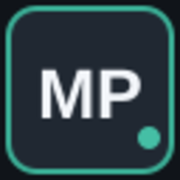
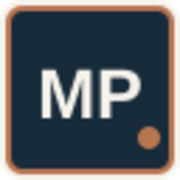
junk pushing

Changed region(s): [[0.0, 0.0, 1.0, 1.0]]

diff --git a/index.html b/index.html
@@ -7,7 +7,7 @@
     <link rel="apple-touch-icon" href="/apple-touch-icon.png" />
     <link rel="manifest" href="/site.webmanifest" />
     <meta name="viewport" content="width=device-width, initial-scale=1.0" />
-    <meta name="theme-color" content="#101419" />
+    <meta name="theme-color" content="#F5F2EB" />
     <meta name="description" content="Explore Manish Pal's embedded systems projects, microcontroller development, electronics experience, firmware work, and engineering portfolio." />
     <link rel="canonical" href="__SITE_URL__/" />
     <title>Manish Pal | Aspiring Embedded Systems Engineer</title>

diff --git a/src/App.css b/src/App.css
@@ -811,6 +811,7 @@ h1, h2, h3, h4 { color: var(--text); }
   .has-motion .about-copy.reveal, .has-motion .about-facts.reveal,
   .has-motion .timeline-item.reveal, .has-motion .skill-card.reveal,
   .has-motion .project-card.reveal { opacity: 1; transform: none; animation: none; }
+  .hero-copy, .hero-copy > * { opacity: 1; transform: none; animation: none !important; }
   .site-header { animation: none; }
   .hero-grid { animation: none; }
   .project-card:focus-within, .project-card:hover { transform: none; }

diff --git a/README.md b/README.md
@@ -9,12 +9,12 @@ The site presents hands-on experience, education, skills, research interests, an
 
 ## Highlights
 
-- Responsive graphite theme with restrained teal accents, system typography, consistent card surfaces, and keyboard-visible focus states.
+- Responsive editorial theme using warm ivory (`#F5F2EB`), deep navy (`#182B3A`), muted copper (`#B87552`), soft stone (`#E8E3D9`), and slate typography; Times New Roman body typography with a Palatino-style display face for headings.
 - Server-rendered HTML generated at build time so page content and metadata are present before client-side JavaScript runs.
 - Filterable project cards with problem statements, current approaches, openly marked outcomes, and additional technical details.
 - Education, practical electronics experience, achievements, workshop information, and research interests.
 - Conceptual project-flow diagrams that are explicitly labelled as illustrative, not live sensor data.
-- Reduced-motion support, keyboard-accessible navigation, and client-side project interactions.
+- Restrained signal and card motion, reduced-motion support, keyboard-accessible navigation, and client-side project interactions.
 - Accessible contact form with validation and success/error feedback when a Formspree endpoint is configured.
 - Open Graph/social metadata, JSON-LD, a branded social preview, favicon set, web manifest, sitemap, and robots file.
 
